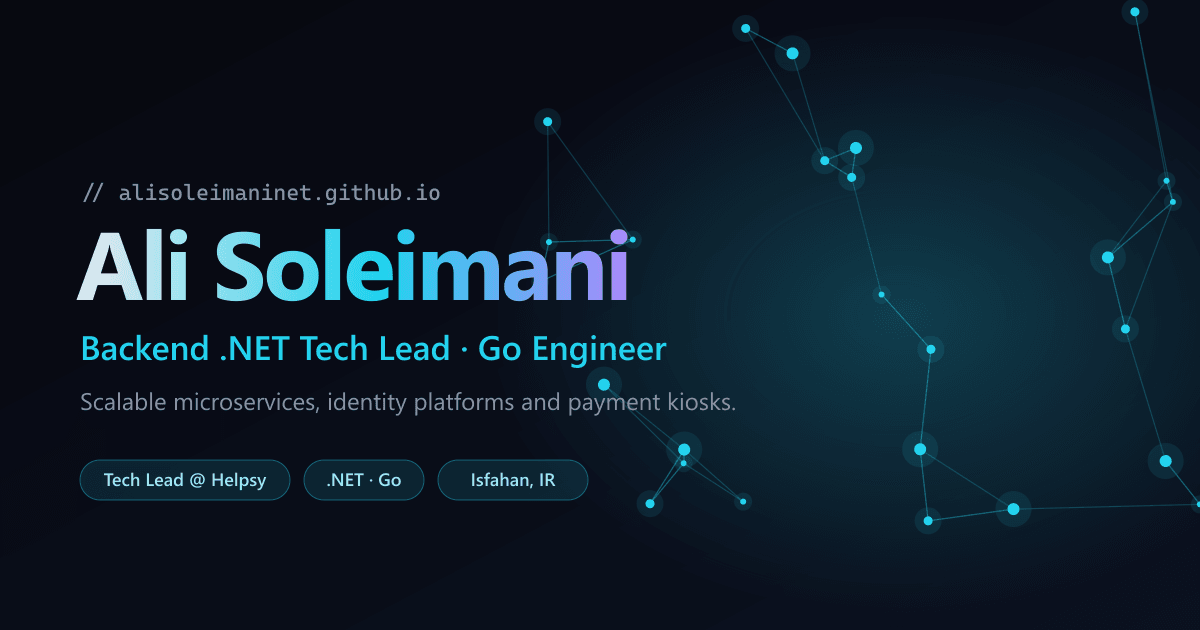
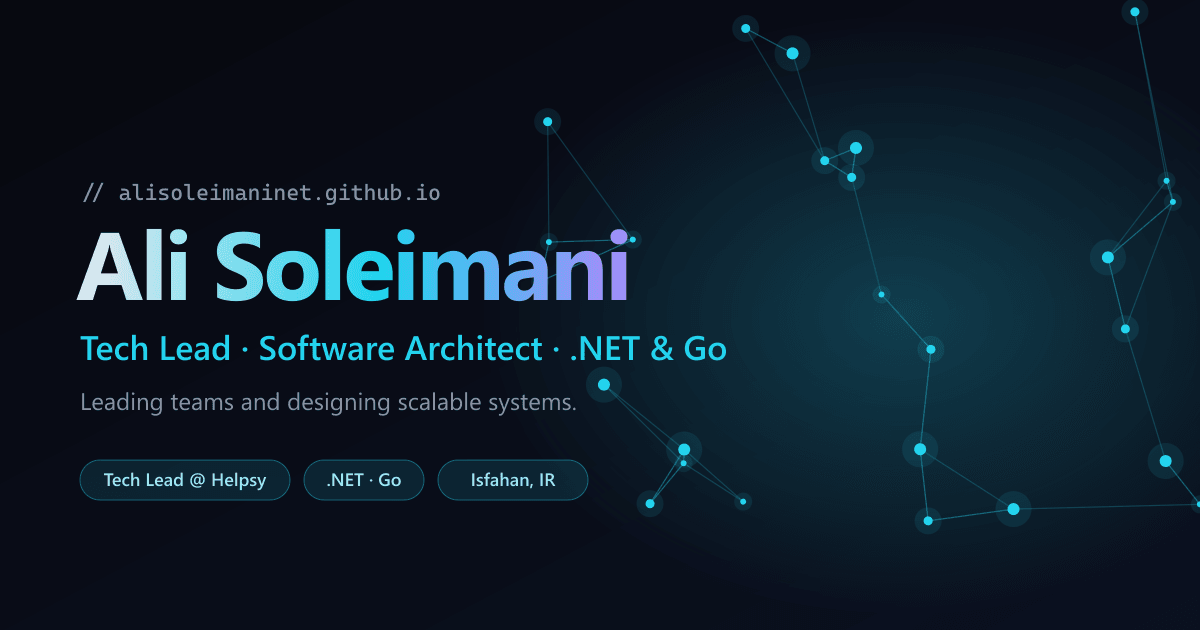
Add Gymivo and early years, emphasise lead and architect roles

diff --git a/src/data/profile.ts b/src/data/profile.ts
@@ -4,7 +4,7 @@
 export interface Project {
   id: string;
   kicker: string;
-  status: 'production' | 'in progress' | 'open source';
+  status: 'production' | 'launching' | 'in progress' | 'open source';
   name: string;
   sub: string;
   description: string;
@@ -21,7 +21,7 @@ export const profile = {
   meta: {
     name: 'Ali Soleimani',
     handle: 'AliSoleimaniNet',
-    title: 'Backend .NET Tech Lead & Go Engineer',
+    title: 'Tech Lead & Software Architect · .NET & Go',
     url: 'https://alisoleimaninet.github.io/',
     location: 'Isfahan, Iran',
     timeZone: 'Asia/Tehran',
@@ -31,10 +31,10 @@ export const profile = {
   },
 
   hero: {
-    eyebrow: 'Backend .NET Tech Lead @ Helpsy',
-    roles: ['Backend .NET Tech Lead', 'Go Engineer', 'Distributed Systems Builder', 'Microservices Architect'],
+    eyebrow: 'Tech Lead & Software Architect @ Helpsy',
+    roles: ['Tech Lead', 'Software Architect', 'System Designer', 'Backend .NET & Go Engineer'],
     tagline:
-      'I design and ship the systems behind healthcare platforms, identity services and payment kiosks: scalable, observable and built to last.',
+      'I lead teams and design the systems behind healthcare platforms, identity services, fitness products and payment kiosks: scalable, observable and built to last.',
     chips: ['.NET 9 / 10', 'Go', 'PostgreSQL', 'Kafka & RabbitMQ', 'gRPC', 'Docker'],
   },
 
@@ -46,13 +46,13 @@ export const profile = {
 
   about: {
     bio: [
-      'I am a backend engineer who likes the hard parts: <strong>distributed systems, identity, payments and the infrastructure that keeps them honest</strong>. At <strong>Helpsy</strong> I lead the engineering of a mental-health clinic platform: the .NET backend, the frontend team and the delivery pipeline behind it.',
-      'Alongside .NET I write <strong>Go</strong>. For <strong>Barnabus</strong> I built the identity and access platform that signs users into their healthcare products. Before that I built and still operate a self-service payment kiosk network that has processed thousands of transactions a day for years.',
+      'I am a backend engineer who likes the hard parts: <strong>distributed systems, identity, payments and the infrastructure that keeps them honest</strong>. At <strong>Helpsy</strong> I am tech lead and architect of a mental-health clinic platform: I designed its system architecture, lead the backend and frontend teams, and run the servers and delivery pipeline behind it.',
+      'Alongside .NET I write <strong>Go</strong>. For <strong>Barnabus</strong> I designed and built the identity and access platform that signs users into their healthcare products. I am also co-founder of <strong>Gymivo</strong>, a fitness platform launching soon, where I lead the backend. Before all that I designed, built and still operate a self-service payment kiosk network that has processed thousands of transactions a day for years. It all started when I was a teenager, building websites for companies and online stores and hosting them myself.',
       'I am also a graduate student in Software Engineering at the University of Isfahan, and I care a lot about clean architecture, developer tooling and documentation that engineers actually read.',
     ],
     facts: [
-      { icon: 'lead', title: 'Tech Lead @ Helpsy', sub: 'Backend, frontend team & DevOps · since 2024' },
-      { icon: 'code', title: '.NET & Go', sub: 'Microservices, gRPC, event-driven systems' },
+      { icon: 'lead', title: 'Tech Lead & Architect @ Helpsy', sub: 'Architecture, teams, servers & delivery · since 2024' },
+      { icon: 'code', title: 'System design · .NET & Go', sub: 'Microservices, event-driven systems, identity' },
       { icon: 'edu', title: 'M.Sc. Software Engineering', sub: 'University of Isfahan · in progress' },
       { icon: 'pin', title: 'Isfahan, Iran', sub: 'Open to remote collaboration' },
     ],
@@ -69,14 +69,25 @@ export const profile = {
 
   experience: [
     {
-      role: 'Senior Backend Engineer & Tech Lead',
+      role: 'Tech Lead & Software Architect',
       org: 'Helpsy',
       orgUrl: 'https://helpsy.ir',
       period: 'Aug 2024 — Present',
       bullets: [
-        'Lead the architecture and delivery of a multi-tenant healthcare platform built on .NET microservices, gRPC and message-driven integration.',
-        'Own the platform end to end: data stores, CI/CD pipelines, containerised deployments across environments, observability and the shared development infrastructure.',
-        'Lead the frontend team shipping Next.js and React products, and set the engineering standards, code review and documentation practices for the team.',
+        'Designed the system architecture of a multi-tenant healthcare platform: .NET microservices behind a gateway, gRPC between services and message-driven integration with a transactional outbox.',
+        'Lead the backend and frontend teams, set the engineering standards, code review and documentation practices, and turn product requirements into technical plans.',
+        'Run the infrastructure end to end: Linux servers, data stores, CI/CD pipelines, containerised deployments across environments, observability and the shared development server.',
+      ],
+    },
+    {
+      role: 'Co-founder & Backend Lead',
+      org: 'Gymivo',
+      orgUrl: 'https://gymivo.ir',
+      period: 'Sep 2025 — Present',
+      bullets: [
+        'Co-founded Gymivo, a fitness platform that connects athletes with coaches for workout plans, progress tracking and challenges, launching soon at gymivo.ir.',
+        'Designed and own the backend: an ASP.NET Core 10 API with Clean Architecture, EF Core on PostgreSQL, JWT auth, a media pipeline and integration tests, shipped with Docker.',
+        'Work design-to-API with the product and frontend team, turning Figma flows into endpoints the Next.js app consumes.',
       ],
     },
     {
@@ -85,16 +96,17 @@ export const profile = {
       orgUrl: 'https://barnabus.ai',
       period: '2026',
       bullets: [
-        'Built the Go identity and access platform for the Barnabus healthcare products: single sign-on, MFA and OAuth2 / OIDC flows on PostgreSQL and Redis.',
+        'Designed and built the Go identity and access platform for the Barnabus healthcare products: single sign-on, MFA and OAuth2 / OIDC flows on PostgreSQL and Redis.',
         'Instrumented everything with OpenTelemetry and Prometheus, and delivered the admin and login front ends around it.',
       ],
     },
     {
       role: 'Full-Stack Developer',
       org: 'Bar1',
+      orgUrl: 'https://bar1.ir',
       period: 'Oct 2023 — Apr 2024',
       bullets: [
-        'Built features for a logistics and freight platform: shipping workflows, bank B2B API integration and internal tooling in .NET.',
+        'Worked full stack on the internal panels of a freight-transport single-window platform: shipping workflows, bank B2B API integration and internal tooling in .NET.',
       ],
     },
     {
@@ -102,6 +114,16 @@ export const profile = {
       org: 'University of Isfahan',
       period: 'Sep 2022 — Mar 2023',
       bullets: ['Assisted computer engineering courses, grading and lab sessions.'],
+    },
+    {
+      role: 'Co-founder · where it started',
+      org: 'OjeAmoozesh',
+      orgUrl: 'https://ojeamoozesh.ir',
+      period: '2016 — 2019',
+      bullets: [
+        'Co-founded OjeAmoozesh, an online study-planning and university-entrance counseling platform, and built its early versions.',
+        'As a teenager, built websites for companies and online stores and ran a small hosting reseller business, hosting and maintaining client sites myself.',
+      ],
     },
   ],
 
@@ -113,12 +135,12 @@ export const profile = {
   projects: <Project[]>[
     {
       id: 'helpsy',
-      kicker: 'Tech Lead',
+      kicker: 'Tech Lead & Architect',
       status: 'production',
       name: 'Helpsy',
       sub: 'Mental-health clinic & therapy platform',
       description:
-        'A multi-tenant platform for clinics, therapists and organizations: online booking, payments, psychology tests, ticketing, SMS notifications and per-tenant sites. I lead the .NET backend, the frontend team and the delivery pipeline.',
+        'A multi-tenant platform for clinics, therapists and organizations: online booking, payments, psychology tests, ticketing, SMS notifications and per-tenant sites. I designed its architecture and lead the backend, frontend and infrastructure.',
       tags: ['.NET', 'gRPC', 'RabbitMQ', 'PostgreSQL', 'Redis', 'Docker', 'Next.js', 'GitLab CI'],
       link: 'https://helpsy.ir',
       featured: true,
@@ -135,23 +157,35 @@ export const profile = {
       link: 'https://barnabus.ai',
     },
     {
+      id: 'gymivo',
+      kicker: 'Co-founder',
+      status: 'launching',
+      name: 'Gymivo',
+      sub: 'Fitness platform connecting athletes and coaches',
+      description:
+        'Find a coach, get a workout plan, follow the exercises and see your progress, with challenges and coach chat along the way. I co-founded Gymivo and build its backend: an ASP.NET Core 10 API behind a Next.js app. Launching soon at gymivo.ir.',
+      tags: ['.NET 10', 'ASP.NET Core', 'Clean Architecture', 'EF Core', 'PostgreSQL', 'JWT', 'Docker', 'Next.js'],
+      link: 'https://gymivo.ir',
+    },
+    {
       id: 'kiosk',
-      kicker: 'Owner',
+      kicker: 'Owner & Architect',
       status: 'production',
       name: 'Kiosk Management',
       sub: 'Self-service payment kiosks for a public-sector client',
       description:
-        'Central admin API plus an offline-first kiosk agent: bank POS terminal and receipt-printer integration, local store-and-forward with background sync, fleet auto-update and locked-down Windows kiosk mode.',
+        'Designed and built end to end, in use as the self-service kiosks behind varzesh.kish.ir: a central admin API plus an offline-first kiosk agent with bank POS terminal and receipt-printer integration, local store-and-forward with background sync, fleet auto-update and locked-down Windows kiosk mode.',
       stats: [
         { value: 'Dozens', label: 'of kiosks' },
         { value: '1000s', label: 'transactions / day' },
         { value: 'Years', label: 'in production' },
       ],
       tags: ['.NET 8', 'Clean Architecture', 'CQRS', 'EF Core', 'PostgreSQL', 'SQLite', 'Docker', 'Windows Services'],
+      link: 'https://varzesh.kish.ir',
     },
     {
       id: 'kiosell',
-      kicker: 'Owner',
+      kicker: 'Owner & Architect',
       status: 'in progress',
       name: 'KioSell',
       sub: 'Multi-tenant commerce & reservation SaaS',

diff --git a/index.html b/index.html
@@ -3,8 +3,8 @@
 <head>
   <meta charset="utf-8" />
   <meta name="viewport" content="width=device-width, initial-scale=1" />
-  <title>Ali Soleimani — Backend .NET Tech Lead & Go Engineer</title>
-  <meta name="description" content="Ali Soleimani — Backend .NET Tech Lead at Helpsy and Go engineer. I design and ship scalable microservices, identity platforms and payment kiosks. Isfahan, Iran." />
+  <title>Ali Soleimani — Tech Lead & Software Architect · .NET & Go</title>
+  <meta name="description" content="Ali Soleimani — Tech Lead and Software Architect at Helpsy, co-founder of Gymivo. I lead teams and design .NET and Go systems: microservices, identity platforms and payment kiosks. Isfahan, Iran." />
   <link rel="canonical" href="https://alisoleimaninet.github.io/" />
   <meta name="theme-color" content="#07090f" />
   <meta name="color-scheme" content="dark" />
@@ -12,12 +12,12 @@
   <link rel="icon" href="/favicon-32.png" sizes="32x32" type="image/png" />
   <link rel="apple-touch-icon" href="/apple-touch-icon.png" />
   <meta property="og:type" content="website" />
-  <meta property="og:title" content="Ali Soleimani — Backend .NET Tech Lead & Go Engineer" />
-  <meta property="og:description" content="Scalable .NET microservices, Go identity platforms, payment kiosks. Tech Lead at Helpsy." />
+  <meta property="og:title" content="Ali Soleimani — Tech Lead & Software Architect · .NET & Go" />
+  <meta property="og:description" content="Tech Lead & Software Architect: .NET microservices, Go identity platforms, payment kiosks. Helpsy · Gymivo." />
   <meta property="og:url" content="https://alisoleimaninet.github.io/" />
   <meta property="og:image" content="https://alisoleimaninet.github.io/og.png" />
   <meta name="twitter:card" content="summary_large_image" />
-  <meta name="twitter:title" content="Ali Soleimani — Backend .NET Tech Lead & Go Engineer" />
+  <meta name="twitter:title" content="Ali Soleimani — Tech Lead & Software Architect · .NET & Go" />
   <meta name="twitter:image" content="https://alisoleimaninet.github.io/og.png" />
   <link rel="preload" as="image" href="/avatar.jpg" />
   <script type="application/ld+json">
@@ -27,8 +27,8 @@
     "name": "Ali Soleimani",
     "url": "https://alisoleimaninet.github.io/",
     "image": "https://alisoleimaninet.github.io/avatar.jpg",
-    "jobTitle": "Backend .NET Tech Lead",
-    "worksFor": { "@type": "Organization", "name": "Helpsy", "url": "https://helpsy.ir" },
+    "jobTitle": "Tech Lead & Software Architect",
+    "worksFor": [{ "@type": "Organization", "name": "Helpsy", "url": "https://helpsy.ir" }, { "@type": "Organization", "name": "Gymivo", "url": "https://gymivo.ir" }],
     "alumniOf": { "@type": "CollegeOrUniversity", "name": "University of Isfahan" },
     "email": "mailto:AliSoleimaniWorks@gmail.com",
     "address": { "@type": "PostalAddress", "addressLocality": "Isfahan", "addressCountry": "IR" },

diff --git a/src/ui/render.ts b/src/ui/render.ts
@@ -48,7 +48,7 @@ function about(p: Profile) {
   <section class="about" id="about">
     <div class="wrap">
       <p class="eyebrow" data-reveal><span class="n">01</span>About</p>
-      <h2 class="h2" data-reveal>Backend engineer, tech lead,<br>systems person.</h2>
+      <h2 class="h2" data-reveal>Tech lead, software architect,<br>systems person.</h2>
       <div class="grid">
         <div class="bio">${p.about.bio.map((b) => `<p data-reveal>${b}</p>`).join('')}</div>
         <div>
@@ -95,7 +95,7 @@ function experience(p: Profile) {
 }
 
 function projectCard(pr: Project) {
-  const status = { production: 'Production', 'in progress': 'In progress', 'open source': 'Open source' }[pr.status];
+  const status = { production: 'Production', launching: 'Launching soon', 'in progress': 'In progress', 'open source': 'Open source' }[pr.status];
   const links = [
     pr.link ? `<a href="${pr.link}" target="_blank" rel="noopener">Visit ${icons.arrowUpRight}</a>` : '',
     pr.repo ? `<a href="${pr.repo}" target="_blank" rel="noopener">Source ${icons.arrowUpRight}</a>` : '',

diff --git a/src/ui/effects.ts b/src/ui/effects.ts
@@ -129,6 +129,7 @@ export function initPalette(p: Profile, extra: Cmd[]) {
     { label: 'Open LinkedIn', hint: 'link', run: () => window.open(p.meta.linkedin, '_blank', 'noopener') },
     { label: 'Open Helpsy', hint: 'link', run: () => window.open('https://helpsy.ir', '_blank', 'noopener') },
     { label: 'Open Barnabus', hint: 'link', run: () => window.open('https://barnabus.ai', '_blank', 'noopener') },
+    { label: 'Open Gymivo', hint: 'link', run: () => window.open('https://gymivo.ir', '_blank', 'noopener') },
     { label: 'Copy email address', hint: p.meta.email, run: () => void copyEmail(p.meta.email), keywords: 'mail contact' },
     { label: 'Send an email', hint: 'mailto', run: () => { location.href = `mailto:${p.meta.email}`; } },
     ...extra,
